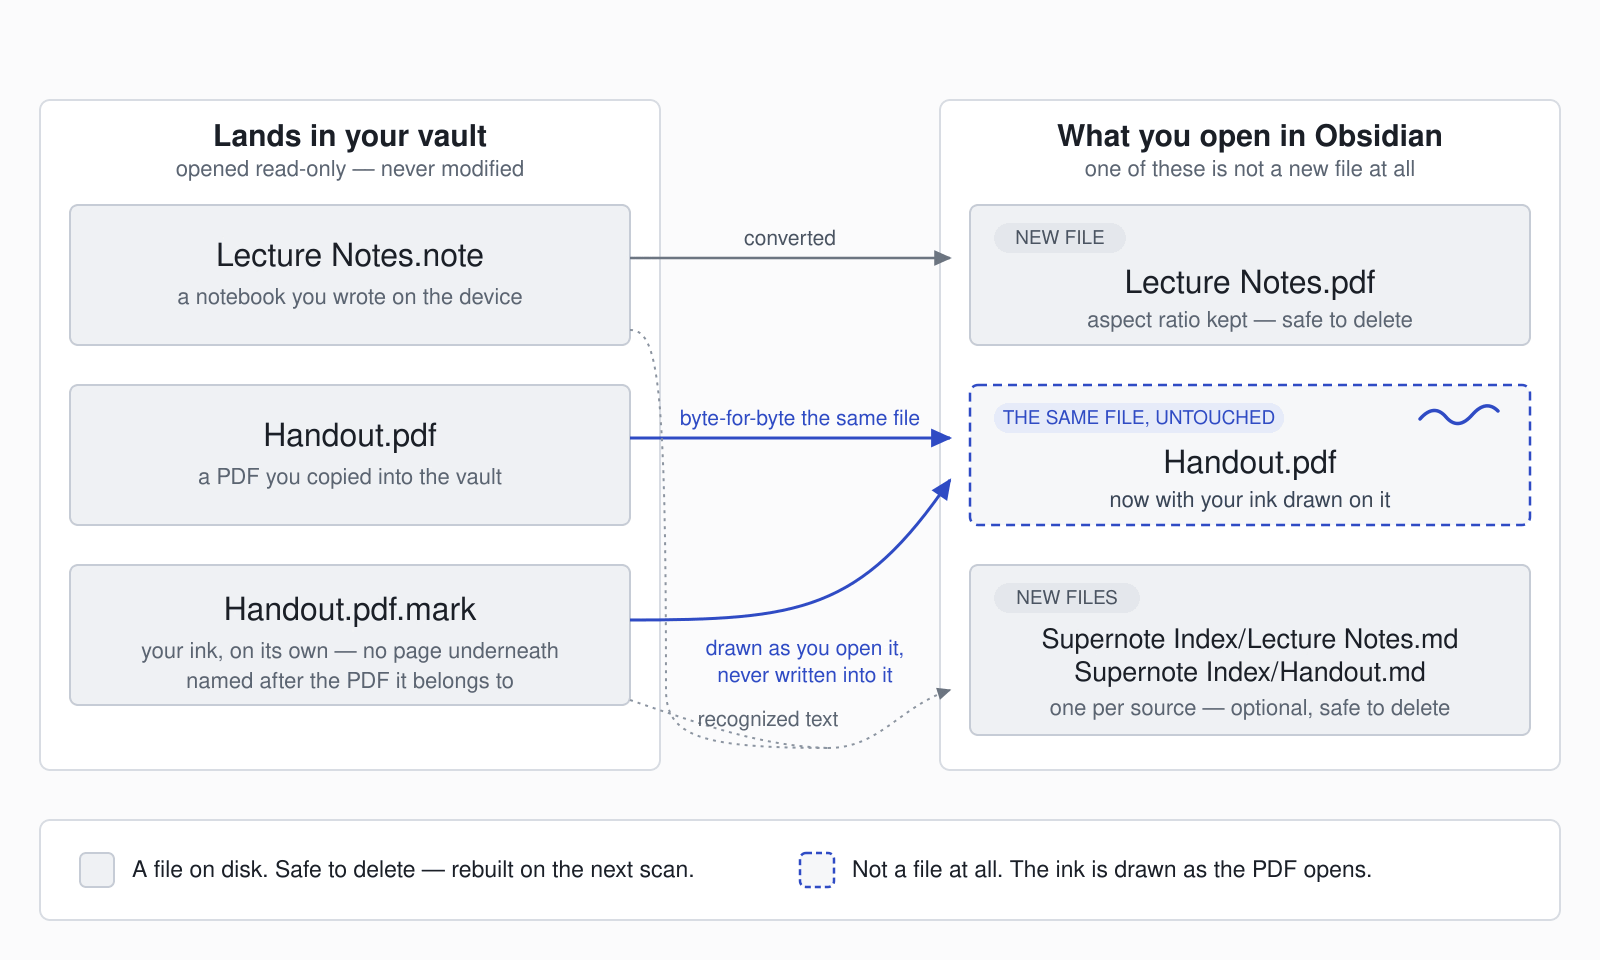
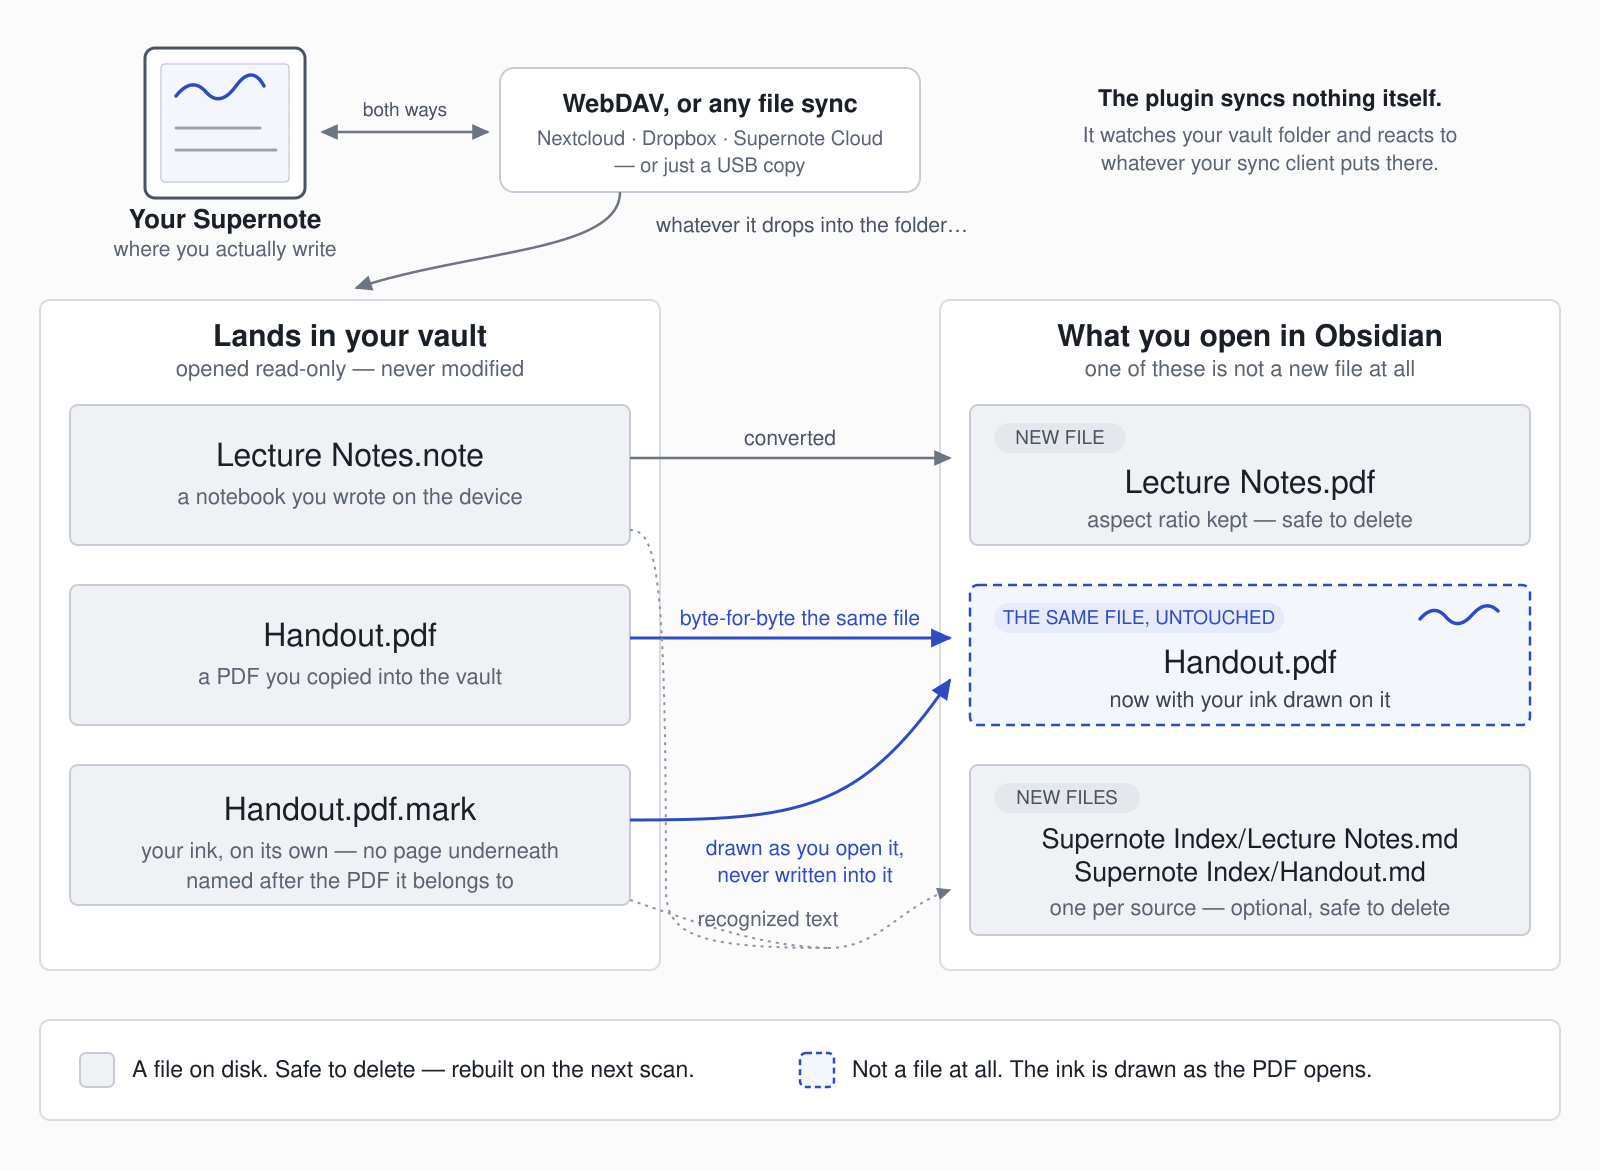
Show how the files reach the vault in the first place
The diagram started at "three files land in your vault" and never said how,
which is the first question a new reader has — and the answer is the one part
of the setup the plugin has nothing to do with.

So: the device and the vault, kept in step both ways by WebDAV or any other
file sync, named concretely enough to recognise (Nextcloud, Dropbox, Supernote
Cloud, a USB copy). The plugin watches a folder; it has no network code at
all, and the diagram now says so where people will read it rather than only in
the privacy section.

The existing two panels move down as a group rather than being re-coordinated
by hand, so the layout below the new band is byte-identical to before.

Claude-Session: https://claude.ai/code/session_01NT9usXazSzMphrvTDuzDvY

diff --git a/README.md b/README.md
@@ -18,7 +18,7 @@ View your Supernote notes and annotated PDFs seamlessly as converted PDFs. Stand
 Sync your vault via WebDAV on Supernote, write on the device, and the plugin turns what lands there into
 files Obsidian can actually open.
 
-![What goes in and what comes out. Three files land in your vault read-only and are never modified: a .note notebook, a PDF you copied in, and its .pdf.mark ink layer. You open three things: a new PDF converted from the notebook, that same PDF you copied in — byte-for-byte unchanged, now with your ink drawn on it as it opens — and an optional searchable Markdown index built from recognized handwriting](assets/images/pipeline.png)
+![How the files get to you and what happens to them. Your Supernote and your vault are kept in step, both ways, by WebDAV or any other file sync — Nextcloud, Dropbox, Supernote Cloud, or just a USB copy; the plugin syncs nothing itself, it only watches the folder. Three files land there read-only and are never modified: a .note notebook, a PDF you copied in, and its .pdf.mark ink layer. You then open three things: a new PDF converted from the notebook, that same PDF you copied in — byte-for-byte unchanged, now with your ink drawn on it as it opens — and an optional searchable Markdown index built from recognized handwriting](assets/images/pipeline.png)
 
 ### 🖼 Example
 
